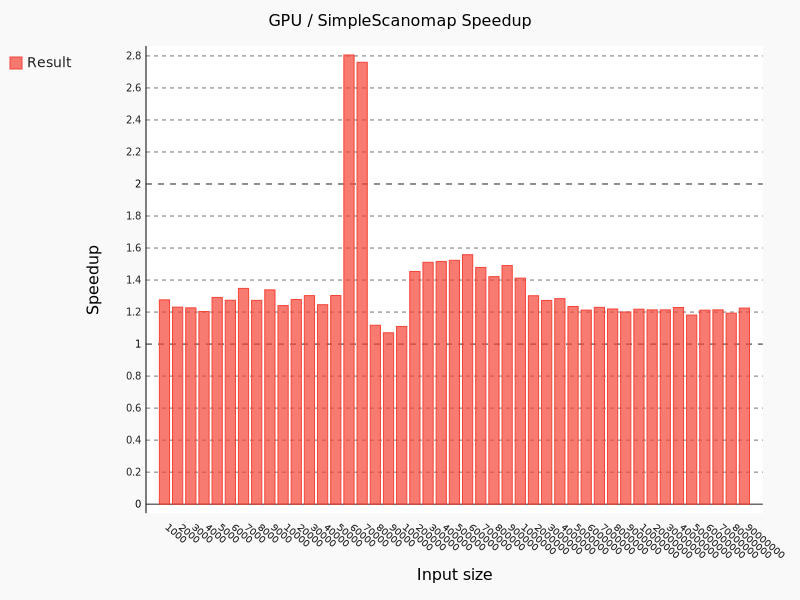
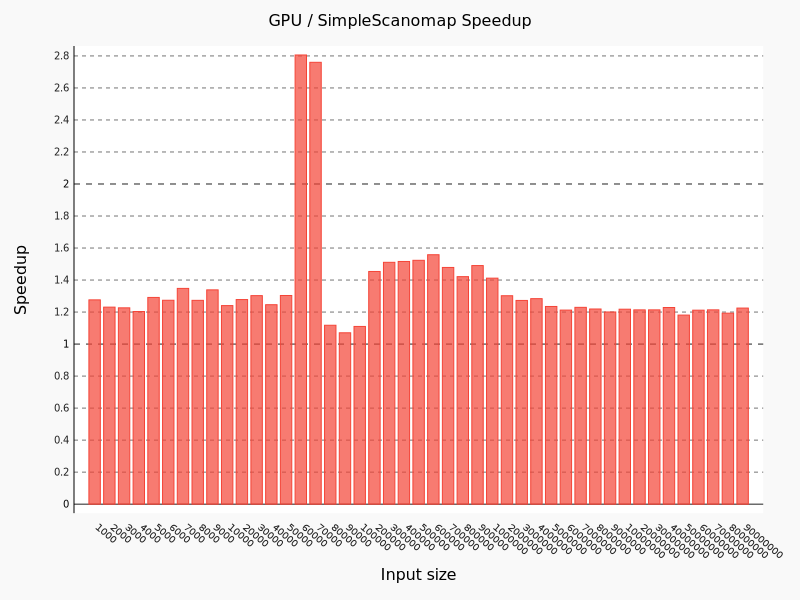
images

diff --git a/Graph creator/graph.py b/Graph creator/graph.py
@@ -44,7 +44,7 @@ line_chart.add("No scanomap", average_data)
 line_chart.add("Yes scanomap", average_data_yes)
 line_chart.render_to_png('../images/chart.png')
 
-line_chart = pygal.Bar(x_label_rotation=40, x_title='Input size', y_title='Speedup')
+line_chart = pygal.Bar(x_label_rotation=40, x_title='Input size', y_title='Speedup', show_legend=False)
 line_chart.title = 'GPU / SimpleScanomap Speedup'
 line_chart.x_labels = map(str, sorted_keys)
 line_chart.add('Result', comparing_Results)
@@ -97,7 +97,7 @@ line_chart.add("No scanomap", average_data)
 line_chart.add("Yes scanomap", average_data_yes)
 line_chart.render_to_png('../images/futhark-c-chart.png')
 
-line_chart = pygal.Bar(range=(1, 3), x_label_rotation=40, x_title='Input size', y_title='Speedup')
+line_chart = pygal.Bar(range=(1, 3), x_label_rotation=40, x_title='Input size', y_title='Speedup', show_legend=False)
 line_chart.title = 'CPU SimpleScanomap speedup'
 line_chart.x_labels = map(str, sorted_keys)
 line_chart.add('Result', comparing_Results)
@@ -141,7 +141,7 @@ for i in range(0, len(average_data)):
 	comparing_Results.append(average_data[i] / average_data_yes[i])
 
 
-line_chart = pygal.Bar(range=(1,3),x_label_rotation=40, x_title='Input size', y_title='Speedup')
+line_chart = pygal.Bar(range=(1,3),x_label_rotation=40, x_title='Input size', y_title='Speedup', show_legend=False)
 line_chart.title = 'GPU Radix Speedup'
 line_chart.x_labels = map(str, sorted_keys)
 line_chart.add('Result', comparing_Results)
